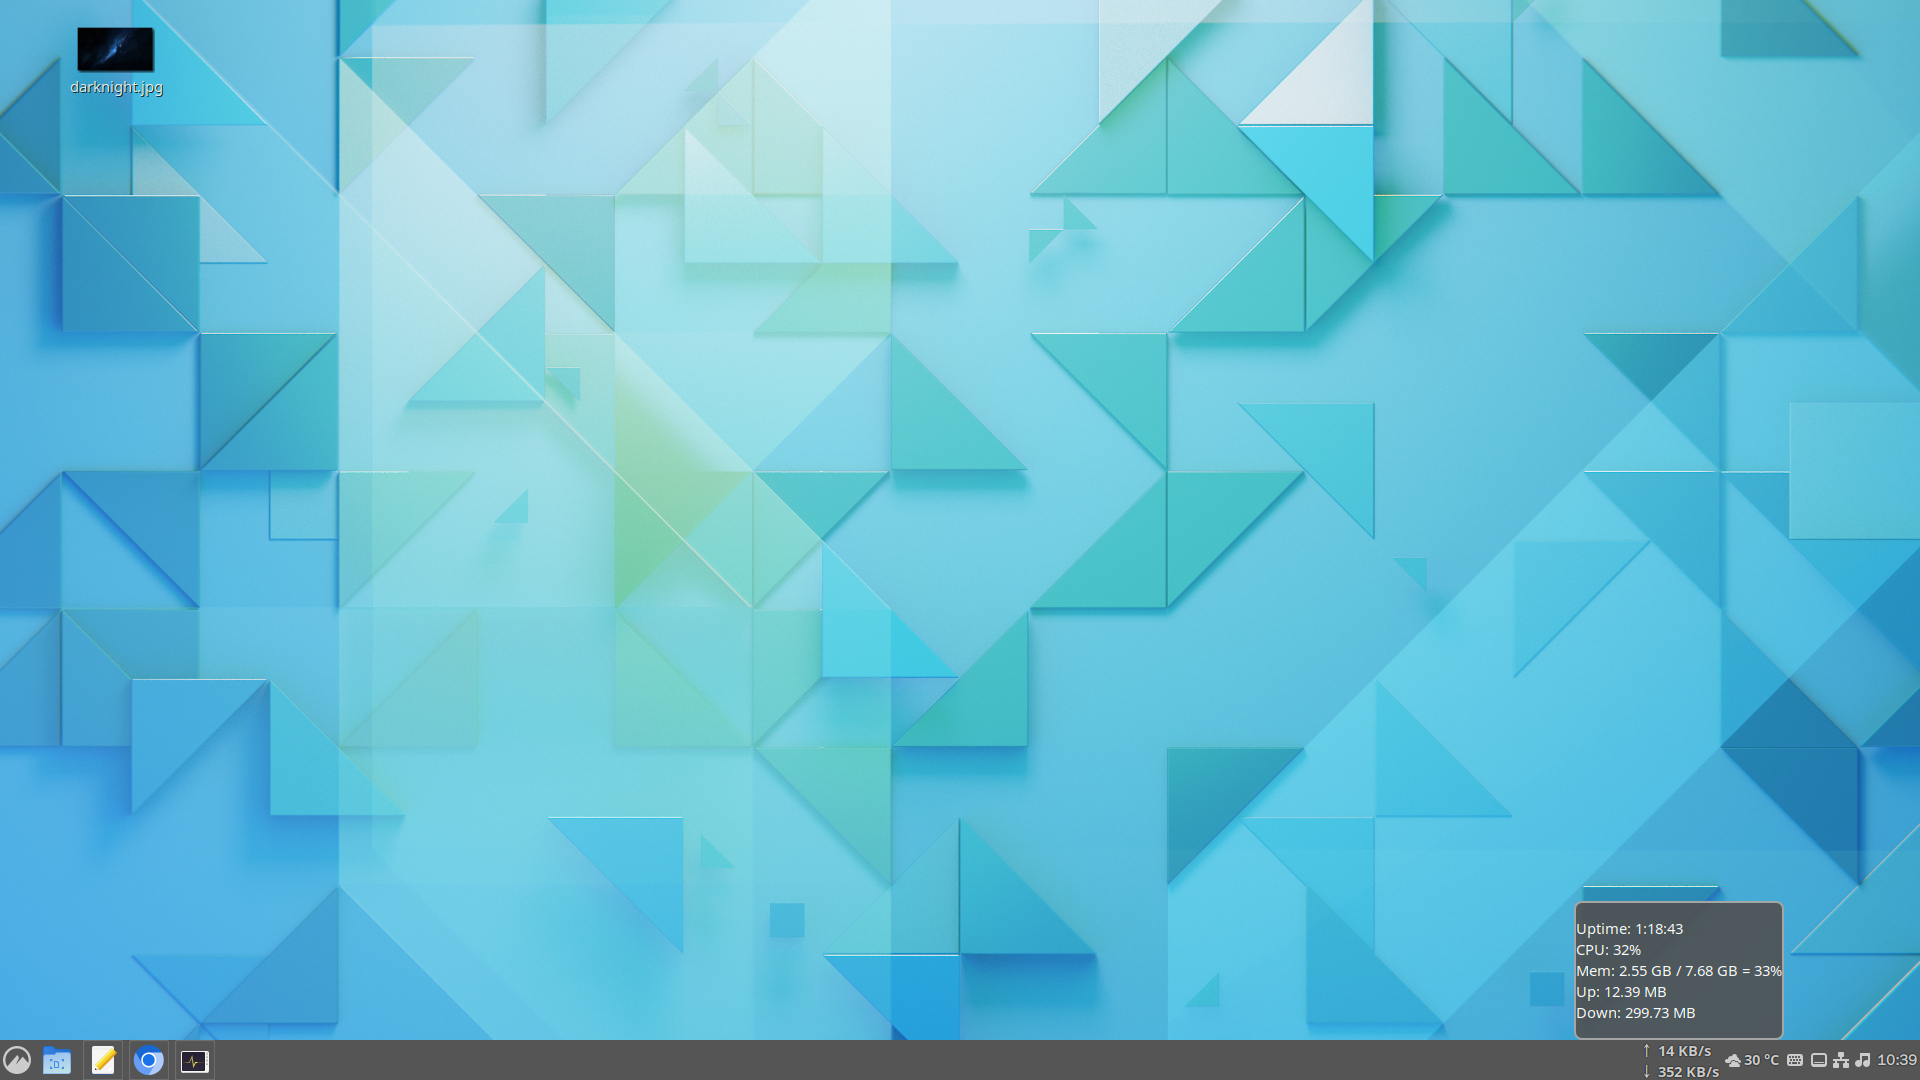
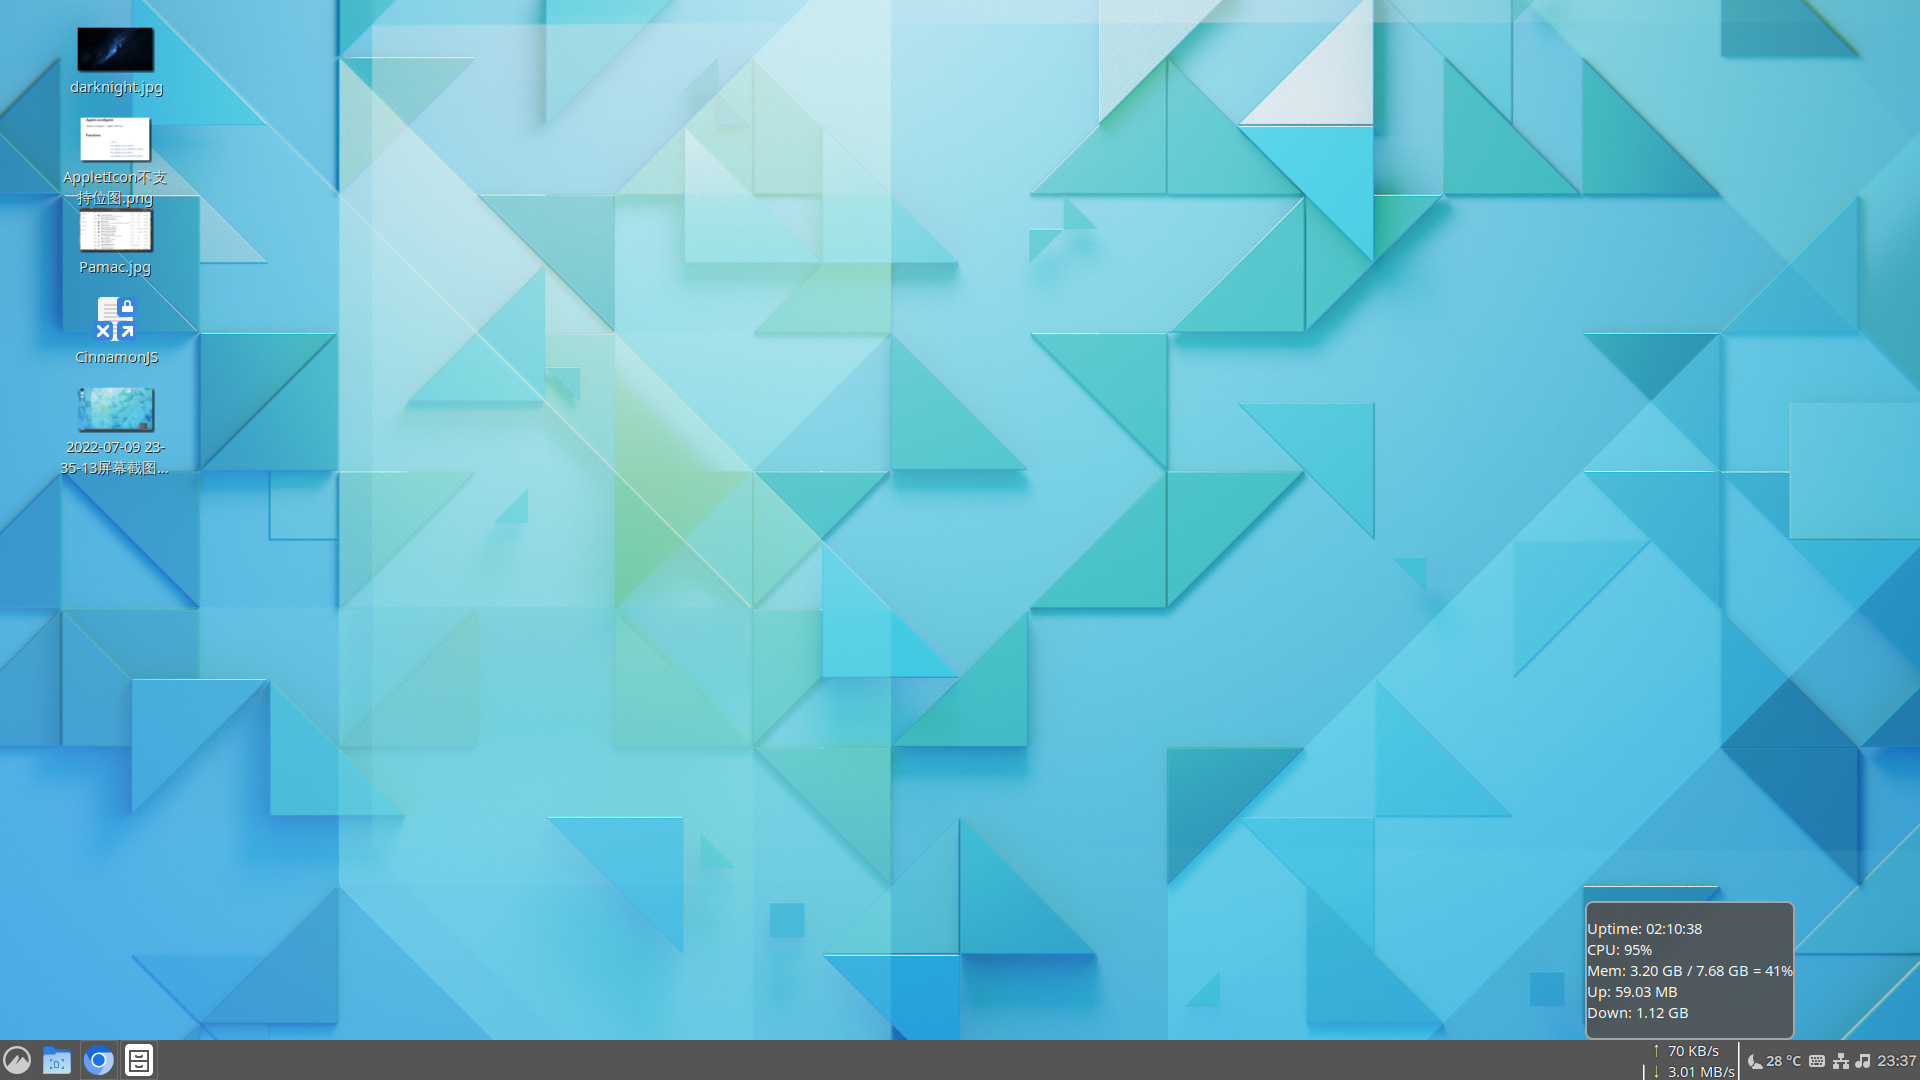
add mem line, cpu line

Changed region(s): [[0.0312, 0.0917, 0.0938, 0.4583], [0.8125, 0.825, 1.0, 1.0], [0.0312, 0.9472, 0.125, 1.0]]

diff --git a/applet.js b/applet.js
@@ -3,37 +3,80 @@ const Util = imports.misc.util;
 const {GLib, Gio} = imports.gi;
 const PopupMenu = imports.ui.popupMenu;
 const St = imports.gi.St;
-var label;
-var db0 = 0, ub0 = 0, tt0=0, idle0 = 0;
+const Cairo = imports.cairo;
+var label1, label2, area_mem, area_cpu;
+var db0 = 0, ub0 = 0, tt0=0, idle0 = 0, mp, cp;
 
 function MyApplet(orientation, panel_height, instance_id) {
     this._init(orientation, panel_height, instance_id);
 }
 
 MyApplet.prototype = {
-    __proto__: Applet.TextApplet.prototype,
+    __proto__: Applet.Applet.prototype,
 
     _init: function(orientation, panel_height, instance_id) {
         Applet.TextApplet.prototype._init.call(this, orientation, panel_height, instance_id);        
-        //global.logError('sonichy');        
-        this.set_applet_label("↑ 0KB/s\n↓ 0KB/s");        
+        //global.logError('sonichy');
+        area_mem = new St.DrawingArea();
+        area_mem.width = 3;
+        area_mem.height = panel_height;
+        area_mem.connect('repaint', this.onRepaint_mem);
+        this.actor.add(area_mem);
+        
+        label1 = new St.Label();
+        label1.set_text("↑ 0KB/s\n↓ 0KB/s");
+        this.actor.add(label1);  // actor = St.BoxLayout
+        
+        area_cpu = new St.DrawingArea();
+        area_cpu.width = 3;
+        area_cpu.height = panel_height;
+        area_cpu.connect('repaint', this.onRepaint_cpu);
+        this.actor.add(area_cpu);
+        
+        this._applet_tooltip._tooltip.set_style("text-align:left");
         this.menuManager = new PopupMenu.PopupMenuManager(this);        
         this.menu = new Applet.AppletPopupMenu(this, orientation);
         this.menuManager.addMenu(this.menu);
-        label = new St.Label();
-        this.menu.addActor(label);
+        label2 = new St.Label();
+        this.menu.addActor(label2);
         
         //https://gjs.guide/guides/gjs/asynchronous-programming.html
         //GLib.timeout_add_seconds(GLib.PRIORITY_DEFAULT, 1, this.update); //real name function do not run
           
         GLib.timeout_add_seconds(GLib.PRIORITY_DEFAULT, 1, () => {        		
         	 var net = this.net();        	   	 
-         	 this.set_applet_label("↑ " + this.B2G(net.ubs) + "/s\n↓ " + this.B2G(net.dbs) + "/s");
-         	 var s = _("Uptime: " + this.uptime() + "\nCPU: " + this.cpu() + "%\nMem: " + this.mem() + "\nUp: " + this.B2G(net.ub) + "\nDown: "+ this.B2G(net.db));
+        	 label1.set_text("↑ " + this.B2G(net.ubs) + "/s\n↓ " + this.B2G(net.dbs) + "/s");
+        	 this.cpu();
+         	 var s = _("Uptime: " + this.uptime() + "\nCPU: " + cp + "%\nMem: " + this.mem() + "\nUp: " + this.B2G(net.ub) + "\nDown: "+ this.B2G(net.db));
 		 	 this.set_applet_tooltip(s); //resize flash
-		 	 label.set_text(s);
+		 	 label2.set_text(s);
+ 		 	 area_mem.queue_repaint();
+		 	 area_cpu.queue_repaint();
             return true; // loop
     	 });    	  
+    },
+    
+    onRepaint_mem: function (area) {
+        let cr = area.get_context();
+        cr.setLineWidth(3);
+        if (mp > 90)
+            cr.setSourceRGBA(1, 0, 0, 1);
+        else
+            cr.setSourceRGBA(1, 1, 1, 1);
+        cr.moveTo(0, area.height);
+        cr.lineTo(0, area.height * (100 - mp) / 100);
+        cr.stroke();
+        cr.$dispose();
+    },
+    
+    onRepaint_cpu: function (area) {
+        let cr = area.get_context();
+        cr.setLineWidth(3);        
+        cr.setSourceRGBA(1, 1, 1, 1);
+        cr.moveTo(0, area.height);
+        cr.lineTo(0, area.height * (100 - cp) / 100);
+        cr.stroke();
+        cr.$dispose();
     },
     
     uptime: function() {
@@ -43,6 +86,8 @@ MyApplet.prototype = {
         var t = contents.toString().split(' ');        
         var tt = Number(t[0]);
         var h = ~~(tt/3600);
+        if (h < 10)
+            h = '0' + h;
         var m = ~~(tt%3600/60);
         if (m < 10)
             m = '0' + m;
@@ -61,13 +106,11 @@ MyApplet.prototype = {
         var tt = 0;
         for (var i=1; i<ca.length; i++) {            
             tt += Number(ca[i]);
-         }
-        global.log(tt);
+         }        
         var idle = Number(ca[4]);
-        var p = ~~(((tt - tt0) - (idle - idle0)) * 100 / (tt - tt0));
+        cp = ~~(((tt - tt0) - (idle - idle0)) * 100 / (tt - tt0));
         tt0 = tt;
         idle0 = idle;
-        return p;
     },
     
     mem: function() {
@@ -79,8 +122,8 @@ MyApplet.prototype = {
         var mt = Number(MT[1]);
         var mf = Number(MF[1]);
         var mu = mt - mf;
-        var p = ~~(mu / mt * 100);
-        var m = this.B2G(mu*1024) + ' / '+ this.B2G(mt*1024) + ' = ' + p + '%';
+        mp = ~~(mu / mt * 100);
+        var m = this.B2G(mu*1024) + ' / '+ this.B2G(mt*1024) + ' = ' + mp + '%';
         return m;
     },
     

diff --git a/README.md b/README.md
@@ -1,3 +1,9 @@
 # CMDU_Cinnamon
-Display net speed on Cinnamon taskbar  
+Display net speed on Cinnamon taskbar, display uptime, CPU usage, memory usage, download bytes, upload bytes on pop window and tooltip.
 ![alt](preview.png)
+
+## Changelog
+### V1.0 (2022-07-09)
+Add mem line on left, cpu line on right.
+### V1.0 (2022-07-07)
+Display net speed on Cinnamon taskbar, display uptime, CPU usage, memory usage, download bytes, upload bytes on pop window and tooltip.
